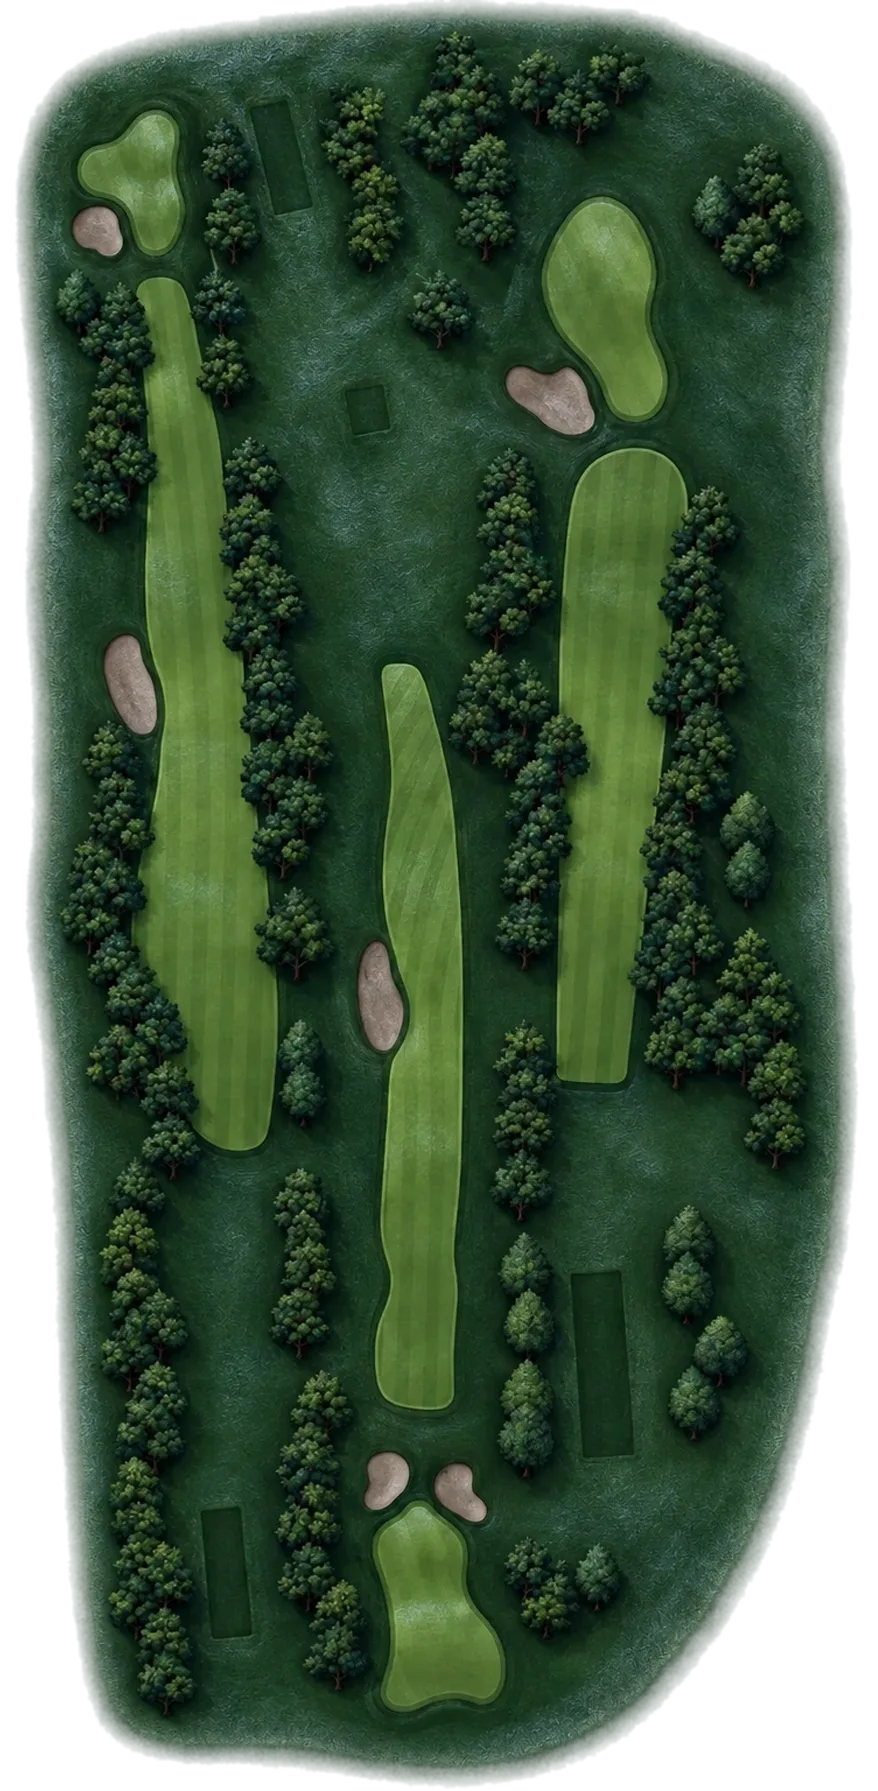
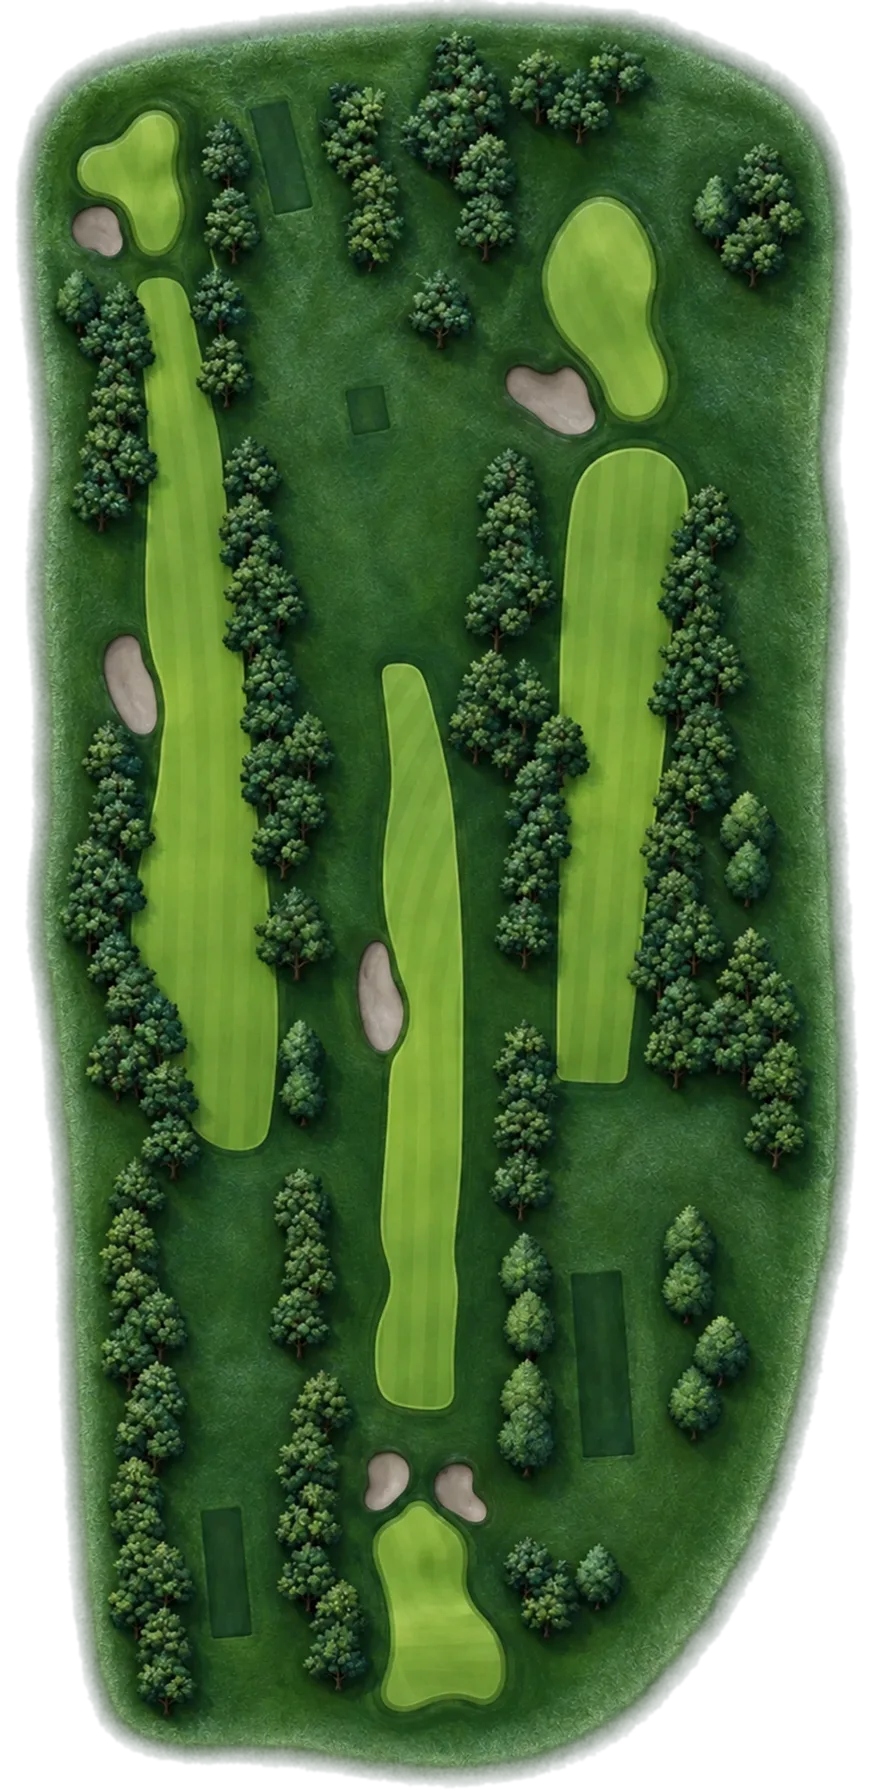
Cada clima con su cancha tal cual: soleado nuevo, mojado y lluvia en su lugar, lluvia intensa con la suya; sin tintes, y el sol del lado de donde vienen las sombras del dibujo
Claude-Session: https://claude.ai/code/session_0189MNUhJPXKQRdhBVoHfR9N

diff --git a/index.html b/index.html
@@ -2195,7 +2195,7 @@ body.apuntando #mago-golpes button { pointer-events: none; }
   </div>
   <button class="volver-app entra" id="volver-app" type="button" hidden style="--i: 4"><svg class="gi" viewBox="0 0 32 32" aria-hidden="true"><g><path d="M26 16H7.5M14.5 8.5L7 16l7.5 7.5" stroke-width="3"/></g></svg>Volver a la SDGApp</button>
   <span id="frase"></span>
-  <span class="version" id="version">v e5816b1 · 10/10, 12:44 a. m.</span>
+  <span class="version" id="version">v 286d9b7 · 10/10, 12:51 a. m.</span>
 </section>
 
 <section class="mazo" id="elegir" hidden aria-label="Elegí tu nivel de dificultad">
@@ -2598,9 +2598,9 @@ const campo = M.crearCampo()
 // la cancha es el dibujo tal cual: CANCHA.escala píxeles = 1 yarda
 const fondo = new Image()
 fondo.src = 'cancha.webp'
-// la cancha de cada clima (dibujadas encima de la original, mismo encuadre: el terreno del juego no cambia). La lluvia
-// intensa usa la de lluvia (con más tinte encima)
-const CANCHA_CLIMA = { soleado: 'cancha-soleado.webp', nuboso: 'cancha-nuboso.webp', seco: 'cancha-seco.webp', mojado: 'cancha-mojado.webp', lluvia: 'cancha-lluvia.webp', tormenta: 'cancha-lluvia.webp', nieve: 'cancha-nieve.webp' }
+// la cancha de cada clima (dibujadas encima de la original, mismo encuadre: el terreno del juego no cambia), cada una
+// con su dibujo, tal cual
+const CANCHA_CLIMA = { soleado: 'cancha-soleado.webp', nuboso: 'cancha-nuboso.webp', seco: 'cancha-seco.webp', mojado: 'cancha-mojado.webp', lluvia: 'cancha-lluvia.webp', tormenta: 'cancha-tormenta.webp', nieve: 'cancha-nieve.webp' }
 function fondoDelClima(id) {
   const src = CANCHA_CLIMA[id] ?? 'cancha.webp'
   if (fondo.getAttribute('src') === src) return
@@ -5381,8 +5381,8 @@ function dibujar() {
     // todo el green, una marca cada 2 yd con la caída de ese lugar (cambia por zonas, fluida). Animadas: cada una
     // corre para donde cae, aparece y se apaga, y vuelve a empezar; donde cae más, corren más rápido.
     const ahora = performance.now() / 1000
-    // en los greens oscuros (lluvia y lluvia intensa) las flechitas van claras; en los demás, oscuras
-    ctx.strokeStyle = ['lluvia', 'tormenta'].includes(ronda.clima?.id) ? 'rgb(236,242,232)' : 'rgb(16,54,34)'
+    // en el green oscuro (lluvia intensa) las flechitas van claras; en los demás, oscuras
+    ctx.strokeStyle = ronda.clima?.id === 'tormenta' ? 'rgb(236,242,232)' : 'rgb(16,54,34)'
     ctx.lineWidth = 0.13
     ctx.lineCap = 'round'
     ctx.lineJoin = 'round'
@@ -5497,9 +5497,8 @@ const CLIMA_TXT = {
   viento: ['Cambió el viento', 'Mirá la flecha antes de pegar'],
 }
 // el tinte de la cancha (abajo de la pelota y los monos): cada día con su luz
-// (con las canchas dibujadas para cada clima, el tinte ya casi no hace falta: queda el de la lluvia intensa, que usa la
-// de lluvia)
-const TINTE_CLIMA = { soleado: null, nuboso: null, seco: null, mojado: null, lluvia: 'rgba(24,40,62,.06)', tormenta: 'rgba(10,20,36,.28)', nieve: null }
+// (con un dibujo para cada clima, ninguno lleva tinte: la cancha se ve tal cual la dibujó Rorro)
+const TINTE_CLIMA = { soleado: null, nuboso: null, seco: null, mojado: null, lluvia: null, tormenta: null, nieve: null }
 /**
  * El clima del día, en un banner chico debajo del número de la cuenta regresiva: aparece en el 3 con lo corto de sus
  * mecánicas y se va en el 1, así no te come tiempo de juego (el reloj arranca en el ¡YA!). No se toca ni frena nada.
@@ -5730,9 +5729,13 @@ function dibujarClima() {
       ctx.stroke()
     }
   }
-  // el sol: un brillo cálido arriba, con rayos que giran despacito
+  // el sol: un brillo cálido con rayos que giran despacito, del lado de donde viene la luz del dibujo (arriba a la
+  // izquierda de la cancha: las sombras de los árboles caen abajo a la derecha). Gira con la cámara, así siempre
+  // coincide con las sombras: jugando hacia arriba del dibujo queda arriba a la izquierda; hacia abajo, abajo a la derecha
   if (id === 'soleado') {
-    const sx = W * 0.92, sy = H * 0.04
+    const c = Math.cos(cam.rot), s = Math.sin(cam.rot)
+    const ux = (s - c) / Math.SQRT2, uy = -(s + c) / Math.SQRT2 // el (-1, -1) del dibujo, en la pantalla
+    const sx = W / 2 + ux * W * 0.6, sy = H / 2 + uy * H * 0.6
     const g = ctx.createRadialGradient(sx, sy, 0, sx, sy, Math.max(W, H) * 0.55)
     g.addColorStop(0, 'rgba(255,236,170,.42)')
     g.addColorStop(0.35, 'rgba(255,214,120,.12)')

diff --git a/juego.html b/juego.html
@@ -2581,9 +2581,9 @@ const campo = M.crearCampo()
 // la cancha es el dibujo tal cual: CANCHA.escala píxeles = 1 yarda
 const fondo = new Image()
 fondo.src = 'cancha.webp'
-// la cancha de cada clima (dibujadas encima de la original, mismo encuadre: el terreno del juego no cambia). La lluvia
-// intensa usa la de lluvia (con más tinte encima)
-const CANCHA_CLIMA = { soleado: 'cancha-soleado.webp', nuboso: 'cancha-nuboso.webp', seco: 'cancha-seco.webp', mojado: 'cancha-mojado.webp', lluvia: 'cancha-lluvia.webp', tormenta: 'cancha-lluvia.webp', nieve: 'cancha-nieve.webp' }
+// la cancha de cada clima (dibujadas encima de la original, mismo encuadre: el terreno del juego no cambia), cada una
+// con su dibujo, tal cual
+const CANCHA_CLIMA = { soleado: 'cancha-soleado.webp', nuboso: 'cancha-nuboso.webp', seco: 'cancha-seco.webp', mojado: 'cancha-mojado.webp', lluvia: 'cancha-lluvia.webp', tormenta: 'cancha-tormenta.webp', nieve: 'cancha-nieve.webp' }
 function fondoDelClima(id) {
   const src = CANCHA_CLIMA[id] ?? 'cancha.webp'
   if (fondo.getAttribute('src') === src) return
@@ -5364,8 +5364,8 @@ function dibujar() {
     // todo el green, una marca cada 2 yd con la caída de ese lugar (cambia por zonas, fluida). Animadas: cada una
     // corre para donde cae, aparece y se apaga, y vuelve a empezar; donde cae más, corren más rápido.
     const ahora = performance.now() / 1000
-    // en los greens oscuros (lluvia y lluvia intensa) las flechitas van claras; en los demás, oscuras
-    ctx.strokeStyle = ['lluvia', 'tormenta'].includes(ronda.clima?.id) ? 'rgb(236,242,232)' : 'rgb(16,54,34)'
+    // en el green oscuro (lluvia intensa) las flechitas van claras; en los demás, oscuras
+    ctx.strokeStyle = ronda.clima?.id === 'tormenta' ? 'rgb(236,242,232)' : 'rgb(16,54,34)'
     ctx.lineWidth = 0.13
     ctx.lineCap = 'round'
     ctx.lineJoin = 'round'
@@ -5480,9 +5480,8 @@ const CLIMA_TXT = {
   viento: ['Cambió el viento', 'Mirá la flecha antes de pegar'],
 }
 // el tinte de la cancha (abajo de la pelota y los monos): cada día con su luz
-// (con las canchas dibujadas para cada clima, el tinte ya casi no hace falta: queda el de la lluvia intensa, que usa la
-// de lluvia)
-const TINTE_CLIMA = { soleado: null, nuboso: null, seco: null, mojado: null, lluvia: 'rgba(24,40,62,.06)', tormenta: 'rgba(10,20,36,.28)', nieve: null }
+// (con un dibujo para cada clima, ninguno lleva tinte: la cancha se ve tal cual la dibujó Rorro)
+const TINTE_CLIMA = { soleado: null, nuboso: null, seco: null, mojado: null, lluvia: null, tormenta: null, nieve: null }
 /**
  * El clima del día, en un banner chico debajo del número de la cuenta regresiva: aparece en el 3 con lo corto de sus
  * mecánicas y se va en el 1, así no te come tiempo de juego (el reloj arranca en el ¡YA!). No se toca ni frena nada.
@@ -5713,9 +5712,13 @@ function dibujarClima() {
       ctx.stroke()
     }
   }
-  // el sol: un brillo cálido arriba, con rayos que giran despacito
+  // el sol: un brillo cálido con rayos que giran despacito, del lado de donde viene la luz del dibujo (arriba a la
+  // izquierda de la cancha: las sombras de los árboles caen abajo a la derecha). Gira con la cámara, así siempre
+  // coincide con las sombras: jugando hacia arriba del dibujo queda arriba a la izquierda; hacia abajo, abajo a la derecha
   if (id === 'soleado') {
-    const sx = W * 0.92, sy = H * 0.04
+    const c = Math.cos(cam.rot), s = Math.sin(cam.rot)
+    const ux = (s - c) / Math.SQRT2, uy = -(s + c) / Math.SQRT2 // el (-1, -1) del dibujo, en la pantalla
+    const sx = W / 2 + ux * W * 0.6, sy = H / 2 + uy * H * 0.6
     const g = ctx.createRadialGradient(sx, sy, 0, sx, sy, Math.max(W, H) * 0.55)
     g.addColorStop(0, 'rgba(255,236,170,.42)')
     g.addColorStop(0.35, 'rgba(255,214,120,.12)')

diff --git a/SPEC.md b/SPEC.md
@@ -389,7 +389,7 @@ Sonido, fotos (van emojis; en la app usa `PlayerAvatar`), match en el mismo celu
   - 🌧 **Lluvia** (14%): vuela 5% menos, rueda poco, greens lentos, 4 charcos por hoyo. Lluvia en pantalla y su sonido (cae para donde sopla el viento: sin viento, para abajo; desde 12 km/h, del todo con el viento, y más rápida cuanto más sopla; `dirLluvia`).
   - ⛈ **Lluvia intensa** (9%): vuela 10% menos, viento de 15 km/h para arriba, greens lentísimos, 7 charcos por hoyo, **el palo resbala** (20% de los tiros: la pega finita y vuela 55% de lo que iba; "🫧 ¡Se le resbaló el palo!") y **no hay monos** (se escondieron). Diluvio, rayos con flash y trueno.
   - ❄ **¡Nevó en San Diego!** (5% desde el 10/10/2026; antes 1%, el easter egg): la cancha blanca, copos, la pelota **naranja**, se clava en la nieve donde cae (pique ×0,08, roce ×3), greens lentos y los monos en cámara lenta. El cartel dice "1 EN 20" y suena el logro.
-- **La cancha de cada clima** (2026-10-07): dibujos hechos sobre la original (ChatGPT, con el prompt de "no mover nada"), alineados a mano contra el mapa del juego (corrimiento < 2 px, chequeado con los bordes de la grilla) y con el borde transparente de la original: `cancha-soleado.webp`, `-nuboso`, `-seco`, `-mojado`, `-lluvia` (la lluvia intensa usa la de lluvia con más tinte; la nieve, desde el 10/10, `cancha-nieve.webp`: ver abajo). Se cambia al empezar la vuelta (`fondoDelClima`) y vuelve la de siempre en el mazo.
+- **La cancha de cada clima** (2026-10-07): dibujos hechos sobre la original (ChatGPT, con el prompt de "no mover nada"), alineados a mano contra el mapa del juego (corrimiento < 2 px, chequeado con los bordes de la grilla) y con el borde transparente de la original: `cancha-soleado.webp`, `-nuboso`, `-seco`, `-mojado`, `-lluvia` (la lluvia intensa usaba la de lluvia con más tinte; desde el 10/10 cada clima tiene la suya, `-tormenta` y `-nieve` incluidas: ver abajo). Se cambia al empezar la vuelta (`fondoDelClima`) y vuelve la de siempre en el mazo.
 - **Charcos**: en la calle de cada hoyo (sorteados con la semilla del clima, sin pisarse). Si la pelota cae o rueda en uno, se frena de golpe ("💦 ¡Al charco!", salpicadura y sonido). Se dibujan con su brillo y, si llueve, con gotas que pican.
 - Deme, Demetrio y el tiro que va solo al hoyo no sienten el clima; el imán de Fito y de Joaco usa el mismo green (lento o rápido), así que entra igual.
 - Calibración (Rorro, HCP 14,6, 80 vueltas por clima, `CLIMA=… node calibrar.mjs`; el bot prueba sus tiros con el clima, sin saber de antemano si le resbala el palo): sin clima +3,49 (LP 5%) · soleado +3,63 (11%) · nublado +3,29 (5%) · seco +3,08 (4%) · mojado +3,96 (6%) · lluvia +3,51 (1%) · **lluvia intensa +5,29 (15%)**, el día más difícil · nieve +3,48 (9%). `DIFICULTAD_REAL` sigue midiéndose sin clima.
@@ -608,4 +608,17 @@ Pedido de Rorro: le tocó la nieve y el fondo no estaba bien (era la cancha orig
 - Sobre la nieve, lo que el juego dibuja encima de la cancha también: el cajón del tee en el verde clarito que asoma abajo de la nieve (como en el dibujo; antes, verde fuerte), y los textos sueltos (TEE 15 / 16 / 17 y las yardas del mono que viene) en verde oscuro en vez de crema.
 - **1 de cada 10** (antes 1 de cada 100). El clima de un match sale de su semilla, así que cambiar las chances a lo bruto le cambiaba el clima a un desafío pendiente (el que responde jugaría otro día que el que desafió) y a los replays. Por eso (`NIEVE` en el motor): el sorteo es el de siempre y, si no nevó, una segunda tirada sacada del mismo número la convierte en nieve con la chance que falta (9,1%); el resto de los climas queda en la misma proporción (soleado y nublado 20%, seco y mojado 14,5%, lluvia 12,7%, lluvia intensa 8,2%). Y va con la fecha: `sortearClima(rng, fecha)` y `condicionesMatch(semilla, fecha)` usan la de 1 en 100 antes de `NIEVE.desde` (10/10/2026 03:40 UTC, antes de publicarlo: el código nuevo siempre usa la nueva). El que desafía, la de ahora; el que responde y el replay, la fecha del desafío. Con la misma tirada, el clima nuevo es el de antes o nieve (nunca otro), y los charcos (`semillaClima`) no cambian.
 - **Mejor 1 de cada 20** (Rorro, el mismo día). El 10% estuvo publicado unos minutos (03:40 a 03:44 UTC), así que la chance quedó como una lista por fecha (`NIEVE`: `[{ desde, prob }]`, `chanceNieve(fecha)`): antes de las 03:40, 1%; hasta las 03:44, 10%; desde ahí, 5%. Cada desafío, con la de su fecha. Con la misma tirada, la del 5% nieva solo donde nevaba con la del 10% (la segunda tirada es la misma, con un umbral más bajo). El resto: soleado y nublado 21,1%, seco y mojado 15,4%, lluvia 13,4%, lluvia intensa 8,6%.
+
+## Cada clima con su cancha, tal cual (2026-10-10)
+
+Rorro mandó los dibujos de cada clima para que vayan tal cual. El 7/10 los había mandado sin decir cuál era cuál y se asignaron mal (el de mojado estaba en soleado y el de lluvia intensa en lluvia).
+- `cancha-soleado.webp`: el dibujo nuevo de sol pleno (verde clarito y luminoso, bunkers blancos, sombras marcadas).
+- `cancha-mojado.webp`: el que estaba en soleado.
+- `cancha-lluvia.webp`: uno nuevo (verde apagado, bunkers grises).
+- `cancha-tormenta.webp` (nueva): el que estaba en lluvia, el más oscuro y azulado. Antes la lluvia intensa no tenía cancha propia.
+- Nublado, seco y nieve quedan igual. El dibujo viejo de mojado (con manchas de barro y los puntitos de los tees) ya no se usa.
+- Alineados igual que los otros (`alinear.py`); el chequeo de bordes contra la original da 0 px de corrimiento en los cuatro.
+- **Sin tintes**: ningún clima lleva el velo de color encima (`TINTE_CLIMA` todo en null; antes la lluvia tenía uno de 6% y la lluvia intensa uno de 28%). Siguen los efectos que se mueven: el sol que brilla, las sombras de las nubes, la lluvia, los rayos y los copos.
+- Las flechitas de caída del green van claras solo en la lluvia intensa, que tiene el green oscuro. En la lluvia nueva el green es más claro y van oscuras, como en los demás.
+- **El sol, del lado de las sombras** (Rorro: "los rayos de sol deberían venir del lado correcto"). En el dibujo de sol las sombras de los árboles caen abajo a la derecha, así que la luz viene de arriba a la izquierda de la cancha. El brillo con los rayos estaba fijo arriba a la derecha de la pantalla. Ahora sale de esa dirección del dibujo pasada a la pantalla con el giro de la cámara (`cam.rot`): en el 15 y el 17, que se juegan hacia arriba del dibujo, queda arriba a la izquierda; en el 16, que se juega hacia abajo, abajo a la derecha. Siempre coincide con las sombras, también mientras la cámara gira.
 
